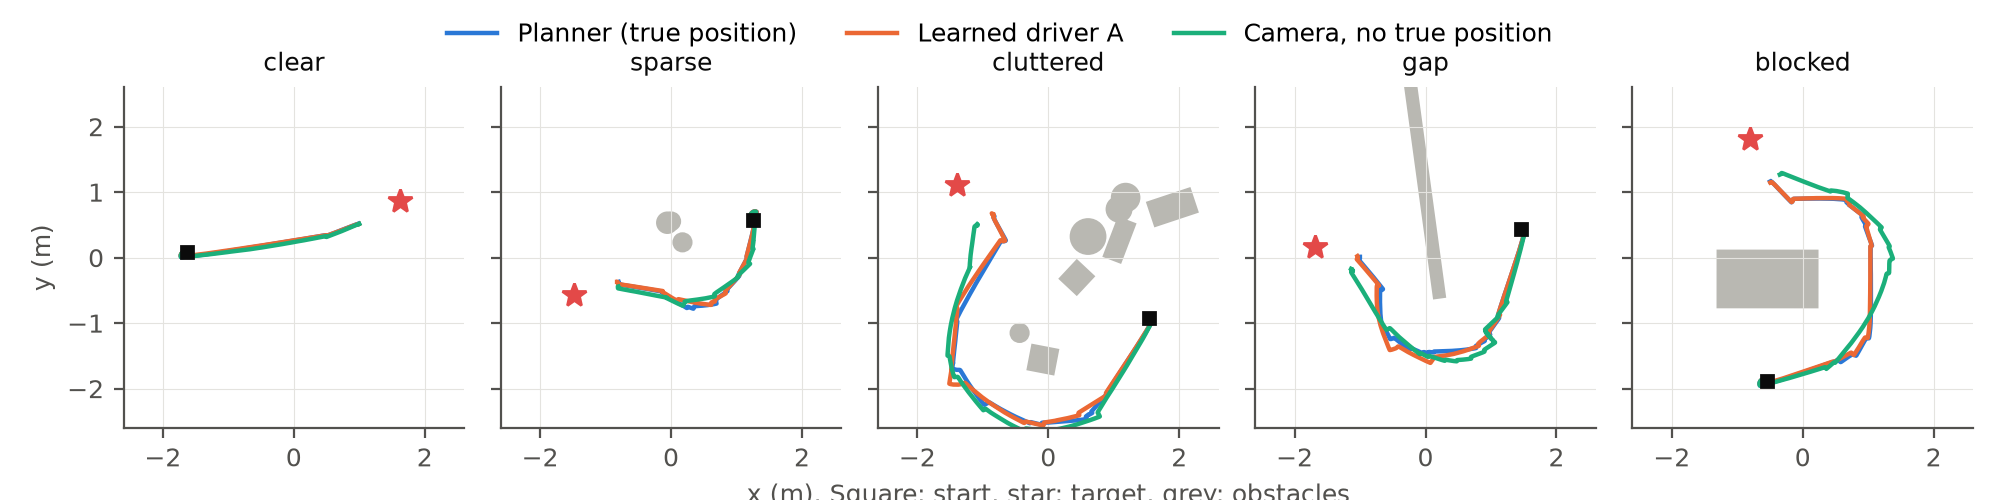
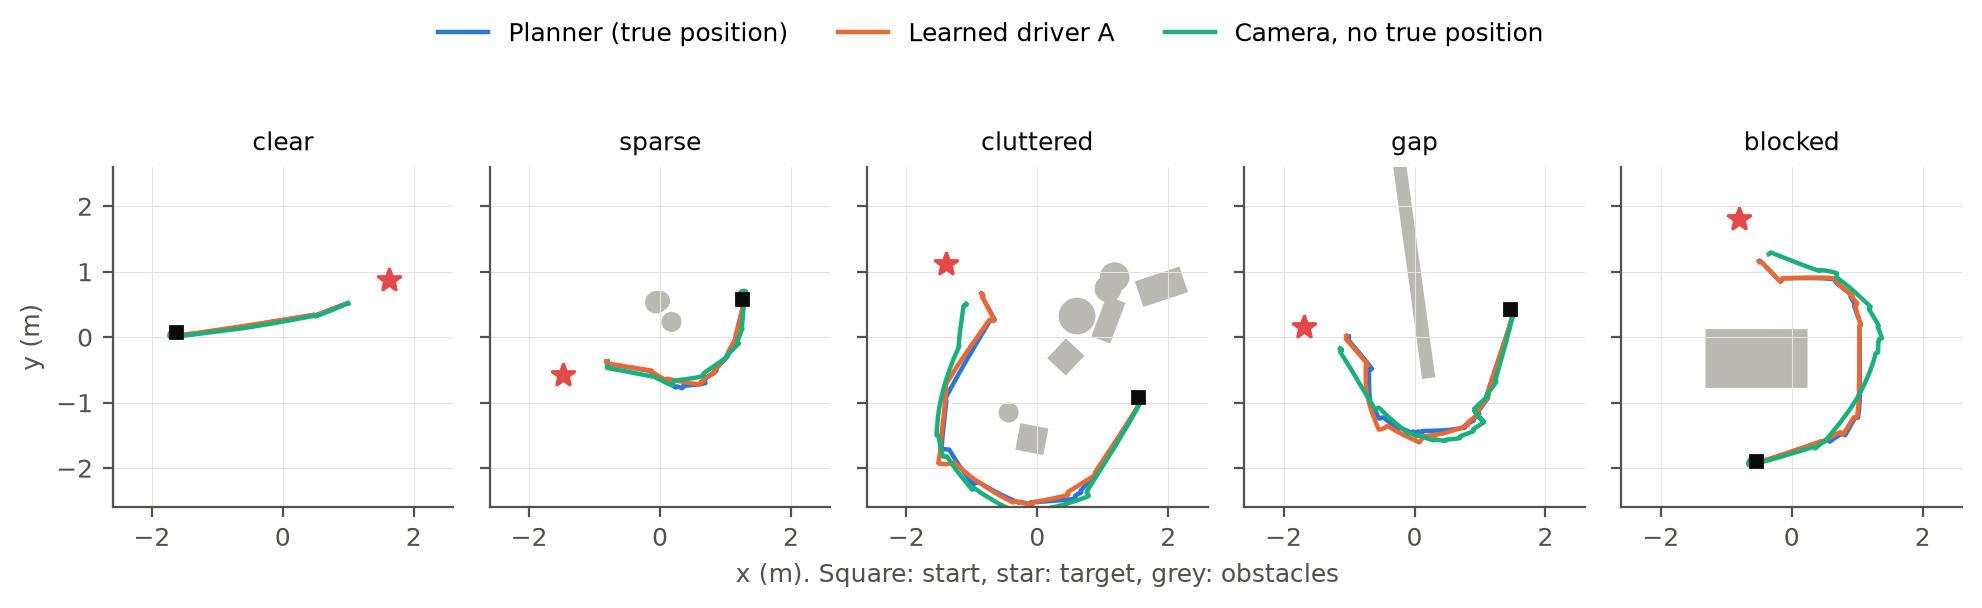
Fix clipped labels on routes figure

diff --git a/comp0245_bc/autonomy/make_figures.py b/comp0245_bc/autonomy/make_figures.py
@@ -191,7 +191,7 @@ def fig_routes():
     with open(path) as fh:
         d = json.load(fh)
     style = {"planner": (BLUE, "Planner (true position)"), "driverbrake:trained/driver_A_s1.npz": (ORANGE, "Learned driver A"), "cam": (AQUA, "Camera, no true position")}
-    fig, axes = plt.subplots(1, 5, figsize=(10, 2.5), sharex=True, sharey=True)
+    fig, axes = plt.subplots(1, 5, figsize=(10, 3.0), sharex=True, sharey=True)
     for ax, sc in zip(axes, SCENES):
         s = next(x for x in d["scenes"] if x["scenario"] == sc)
         for o in s.get("obstacles") or []:
@@ -211,8 +211,8 @@ def fig_routes():
     axes[2].set_xlabel("x (m). Square: start, star: target, grey: obstacles")
     h, l = axes[0].get_legend_handles_labels()
     fig.legend(h, l, frameon=False, ncol=3, loc="upper center")
-    fig.tight_layout(rect=(0, 0, 1, 0.92))
-    fig.savefig(os.path.join(F, "routes.png"))
+    fig.tight_layout(rect=(0, 0, 1, 0.9))
+    fig.savefig(os.path.join(F, "routes.png"), bbox_inches="tight")
 
 
 def main():
